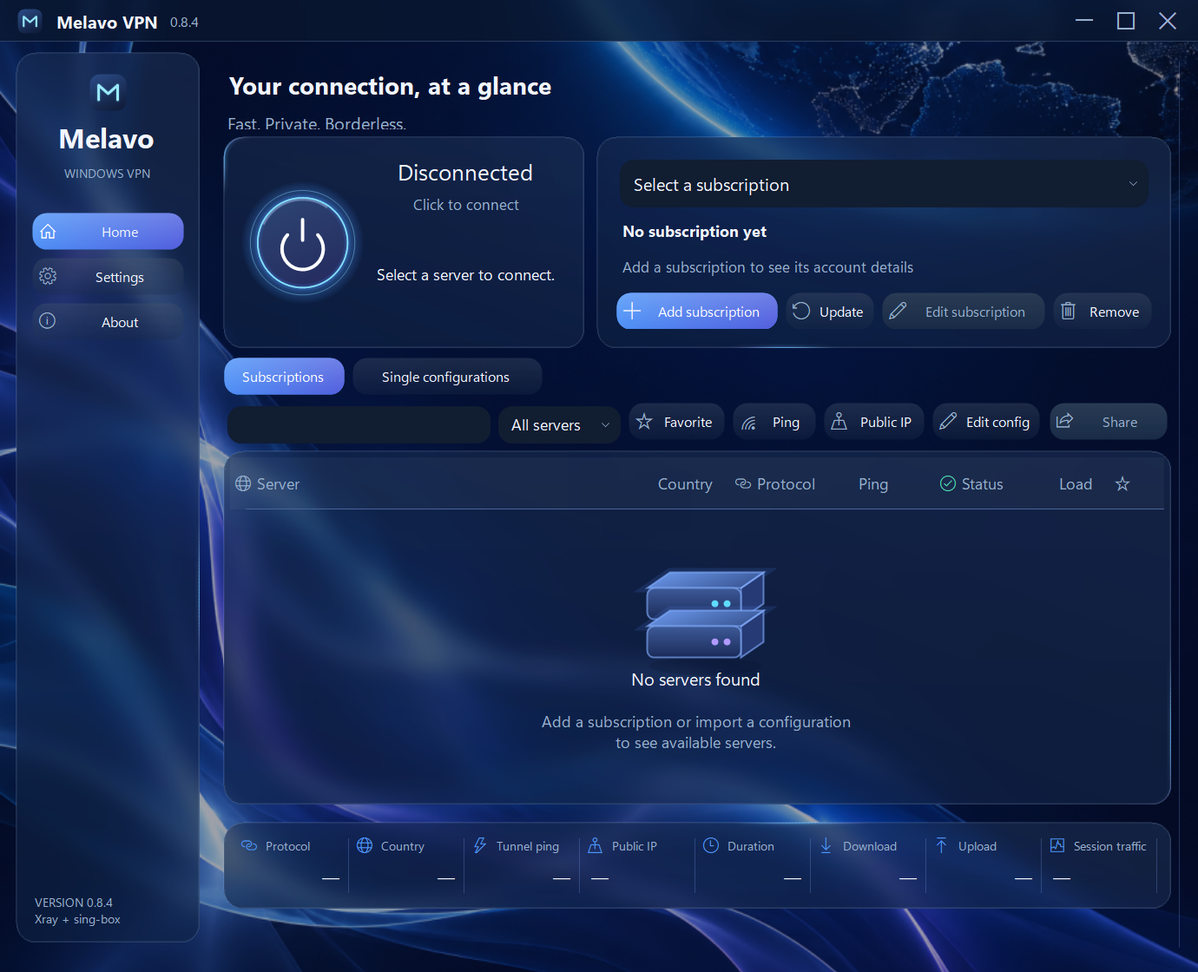
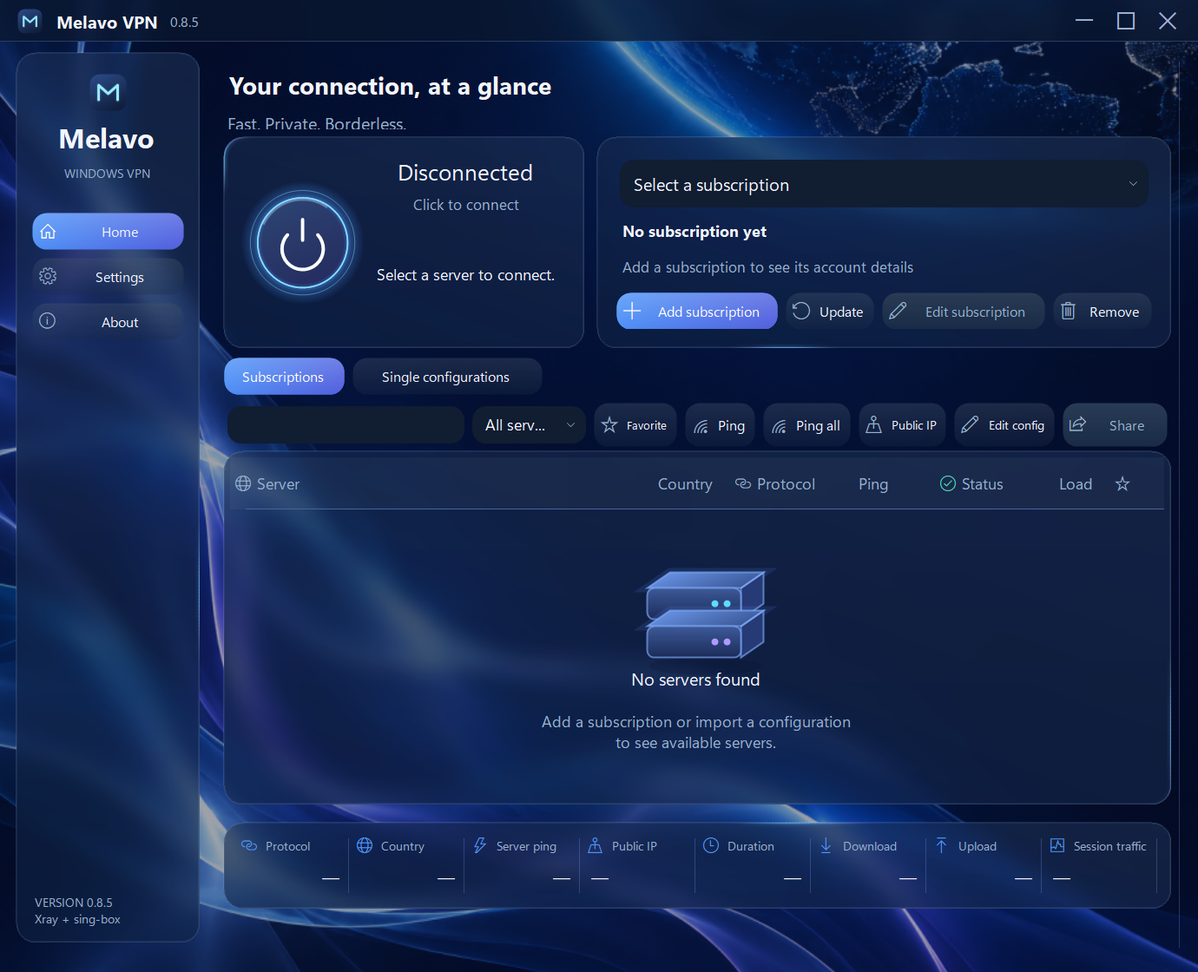
Polish dialog surfaces and add actual ICMP ping checks

diff --git a/Client.Ui.cs b/Client.Ui.cs
@@ -19,12 +19,12 @@ sealed partial class Client {
  Panel? pageHost;string currentPage="Home";ConnectionState visualState;DateTime? connectedAt;long lastRx,lastTx,totalRx,totalTx;bool sampled,disconnecting;string? activeProfileKey;float animation;DateTime sampleAt;DateTime pageTransition;
  void BuildShell(){
   using(var iconStream=typeof(Client).Assembly.GetManifestResourceStream("MelavoClient.Assets.Melavo.ico")){if(iconStream!=null){Icon=new Icon(iconStream);tray.Icon=Icon;}}
-  Design.Glass=preferences.VisualStyle=="glass";Design.Dark=preferences.Dark;Text="Melavo VPN · 0.8.4"+(SubscriptionStore.Edition=="customer"?" · Customer":"");Font=Design.Font();BackColor=Design.Canvas;ForeColor=Design.Text;RightToLeft=RightToLeft.Yes;Size=new(1380,1120);FormBorderStyle=FormBorderStyle.None;MaximizeBox=true;MinimizeBox=true;StartPosition=FormStartPosition.CenterScreen;
+  Design.Glass=preferences.VisualStyle=="glass";Design.Dark=preferences.Dark;Text="Melavo VPN · 0.8.5"+(SubscriptionStore.Edition=="customer"?" · Customer":"");Font=Design.Font();BackColor=Design.Canvas;ForeColor=Design.Text;RightToLeft=RightToLeft.Yes;Size=new(1380,1120);FormBorderStyle=FormBorderStyle.None;MaximizeBox=true;MinimizeBox=true;StartPosition=FormStartPosition.CenterScreen;
   var shell=new BufferedTable{Dock=DockStyle.Fill,ColumnCount=2,RowCount=1,Padding=new(18,12,18,18),RightToLeft=RightToLeft.No};shell.ColumnStyles.Add(new(SizeType.Percent,100));shell.ColumnStyles.Add(new(SizeType.Absolute,212));Controls.Add(shell);Padding=new(0,48,0,0);titleBar=new WindowTitleBar(this){Dock=DockStyle.None,Bounds=new Rectangle(0,0,ClientSize.Width,48),Anchor=AnchorStyles.Top|AnchorStyles.Left|AnchorStyles.Right};Controls.Add(titleBar);titleBar.BringToFront();
   var sidebar=new Card{RightToLeft=RightToLeft.Yes,Dock=DockStyle.Fill,Padding=new(18,22,18,18),BackColor=Design.Surface};shell.Controls.Add(sidebar,1,0);
   var nav=new BufferedFlow{Dock=DockStyle.Top,AutoSize=true,FlowDirection=FlowDirection.TopDown,WrapContents=false};nav.Controls.Add(new BrandLockup{Margin=new(0,0,0,20)});
   foreach(var item in new[]{("Home","◉  خانه"),("Settings","⚙  تنظیمات"),("About","ⓘ  درباره")}){var button=new ModernButton{Text=item.Item2[3..],IconGlyph=item.Item1 switch{"Home"=>"\uE80F","Servers"=>"\uE774","Subscription"=>"\uE8A5","Statistics"=>"\uE9D9","Settings"=>"\uE713",_=>"\uE946"},Width=176,Height=44,Margin=new(0,8,0,0),AccessibleName=item.Item1,Kind=ButtonKind.Ghost,RightToLeft=RightToLeft.Yes};var key=item.Item1;button.Click+=(_,_)=>Navigate(key);navigation[key]=button;nav.Controls.Add(button);}sidebar.Controls.Add(nav);
-  var foot=Design.Label("VERSION 0.8.4\nXray + sing-box",7,true);foot.Dock=DockStyle.Bottom;foot.Height=46;sidebar.Controls.Add(foot);
+  var foot=Design.Label("VERSION 0.8.5\nXray + sing-box",7,true);foot.Dock=DockStyle.Bottom;foot.Height=46;sidebar.Controls.Add(foot);
   pageHost=new BufferedPanel{RightToLeft=RightToLeft.Yes,Dock=DockStyle.Fill,Padding=new(24,12,10,10)};shell.Controls.Add(pageHost,0,0);
   InitializeServerControls();BuildHome();BuildSettings();BuildAbout();
   var footer=new Panel{Dock=DockStyle.Bottom,Height=40,Padding=new(12,8,12,0)};status.Font=Design.Font(9);status.ForeColor=Design.Muted;footer.Controls.Add(status);pageHost.Controls.Add(footer);footer.BringToFront();
@@ -56,9 +56,9 @@ sealed partial class Client {
   var title=Design.Label("اشتراک من",12);title.AutoSize=false;title.Margin=Padding.Empty;title.Dock=DockStyle.Fill;form.Controls.Add(title,0,0);form.SetColumnSpan(title,2);groups.Dock=DockStyle.Fill;form.Controls.Add(groups,0,1);form.SetColumnSpan(groups,2);
   accountUsage.Tag=new TextStyle(11,false,FontStyle.Bold);accountUsage.Font=Design.Font(10);accountUsage.Dock=DockStyle.Fill;accountUsage.AutoSize=false;accountUsage.AutoEllipsis=true;accountUsage.Margin=new(4,7,4,0);form.Controls.Add(accountUsage,0,2);form.SetColumnSpan(accountUsage,2);
   accountProgress.Dock=DockStyle.Fill;accountProgress.Margin=new(4,0,4,0);form.Controls.Add(accountProgress,0,3);form.SetColumnSpan(accountProgress,2);accountExpiry.Dock=DockStyle.Fill;accountExpiry.AutoSize=false;accountExpiry.AutoEllipsis=true;accountExpiry.Margin=new(4,4,4,8);form.Controls.Add(accountExpiry,0,4);form.SetColumnSpan(accountExpiry,2);
-  manageSubscription.IconGlyph="\uE710";refresh.IconGlyph="\uE777";editSubscription.IconGlyph="\uE70F";deleteSubscription.IconGlyph="\uE74D";var manage=manageSubscription;manage.Click+=(_,_)=>{if(singleConfigScope)ShowSingleConfigDialog();else ShowSubscriptionDialog();};StyleExisting(refresh);refresh.Width=110;refresh.Text="آپدیت";manage.Width=192;editSubscription.Width=188;editSubscription.Click+=(_,_)=>ShowEditSubscriptionDialog();deleteSubscription.Width=118;deleteSubscription.Click+=(_,_)=>DeleteSubscription();var actions=new BufferedTable{Dock=DockStyle.Fill,ColumnCount=4,RowCount=1,Margin=Padding.Empty};foreach(var weight in new[]{31f,18f,32f,19f})actions.ColumnStyles.Add(new(SizeType.Percent,weight));var actionButtons=new[]{manage,refresh,editSubscription,deleteSubscription};for(int i=0;i<actionButtons.Length;i++){var button=actionButtons[i];button.Dock=DockStyle.Fill;button.Margin=new(i==0?0:4,5,i==3?0:4,5);button.Height=44;actions.Controls.Add(button,i,0);}form.Controls.Add(actions,0,5);form.SetColumnSpan(actions,2);account.Controls.Add(form);top.Controls.Add(account,1,0);
+  manageSubscription.IconGlyph="\uE710";refresh.IconGlyph="\uE777";editSubscription.IconGlyph="\uE70F";deleteSubscription.IconGlyph="\uE74D";var manage=manageSubscription;manage.Click+=(_,_)=>{if(singleConfigScope)ShowSingleConfigDialog();else ShowSubscriptionDialog();};StyleExisting(refresh);refresh.Width=110;refresh.Text="آپدیت";manage.Width=192;editSubscription.Width=188;editSubscription.Click+=(_,_)=>ShowEditSubscriptionDialog();deleteSubscription.Width=118;deleteSubscription.Click+=(_,_)=>DeleteSubscription();var actions=new BufferedTable{Dock=DockStyle.Fill,ColumnCount=4,RowCount=1,Margin=Padding.Empty};foreach(var weight in new[]{31f,18f,32f,19f})actions.ColumnStyles.Add(new(SizeType.Percent,weight));var actionButtons=new[]{manage,refresh,editSubscription,deleteSubscription};for(int i=0;i<actionButtons.Length;i++){var button=actionButtons[i];button.Dock=DockStyle.Fill;button.Margin=new(i==0?0:4,5,i==3?0:4,5);button.Dock=DockStyle.Fill;button.Height=44;actions.Controls.Add(button,i,0);}form.Controls.Add(actions,0,5);form.SetColumnSpan(actions,2);account.Controls.Add(form);top.Controls.Add(account,1,0);
   var scope=new BufferedFlow{Dock=DockStyle.Fill,FlowDirection=FlowDirection.LeftToRight,WrapContents=false,Margin=Padding.Empty};subscriptionsTab.Width=140;singleConfigsTab.Width=220;foreach(var tab in new[]{subscriptionsTab,singleConfigsTab}){tab.Height=44;tab.Margin=new(0,0,8,0);scope.Controls.Add(tab);}layout.Controls.Add(scope,0,2);
-  var toolbar=new BufferedTable{Dock=DockStyle.Fill,ColumnCount=7,RowCount=1,Margin=Padding.Empty};toolbar.ColumnStyles.Add(new(SizeType.Percent,100));foreach(var w in new[]{150,120,105,125,135,145})toolbar.ColumnStyles.Add(new(SizeType.Absolute,w));search.Font=filter.Font=Design.Font(9);search.Dock=DockStyle.Fill;filter.Dock=DockStyle.Fill;var favorite=Action("محبوب",120);favorite.IconGlyph="\uE734";favorite.Click+=(_,_)=>ToggleFavorite();var ping=Action("پینگ",105);ping.IconGlyph="\uE701";ping.AccessibleDescription="میانهٔ زمان پاسخ HTTPS از تونل سرور انتخابشده، شامل TLS و درخواست HTTP";ping.Click+=async(_,_)=>await CheckLatency();var ip=Action("IP خروجی",105);ip.Width=125;ip.IconGlyph="\uE707";ip.Click+=async(_,_)=>await RefreshIp();foreach(var button in new[]{favorite,ping,ip,editConfig,shareConfig}){button.Height=44;button.Margin=new(4,0,4,0);}toolbar.Controls.Add(search,0,0);toolbar.Controls.Add(filter,1,0);toolbar.Controls.Add(favorite,2,0);toolbar.Controls.Add(ping,3,0);toolbar.Controls.Add(ip,4,0);editConfig.IconGlyph="\uE70F";shareConfig.IconGlyph="\uE72D";editConfig.Width=125;editConfig.Click+=async(_,_)=>await ShowConfigEditor();toolbar.Controls.Add(editConfig,5,0);shareConfig.Width=140;toolbar.Controls.Add(shareConfig,6,0);layout.Controls.Add(toolbar,0,3);
+  var toolbar=new BufferedTable{Dock=DockStyle.Fill,ColumnCount=8,RowCount=1,Margin=Padding.Empty};toolbar.ColumnStyles.Add(new(SizeType.Percent,100));foreach(var w in new[]{140,105,90,110,110,125,130})toolbar.ColumnStyles.Add(new(SizeType.Absolute,w));search.Font=filter.Font=Design.Font(9);search.Dock=DockStyle.Fill;filter.Dock=DockStyle.Fill;var favorite=Action("محبوب",120);favorite.IconGlyph="\uE734";favorite.Click+=(_,_)=>ToggleFavorite();var ping=Action("پینگ",105);ping.IconGlyph="\uE701";ping.AccessibleDescription=L("ICMP round-trip time to the server","زمان رفت و برگشت ICMP به سرور");ping.Click+=async(_,_)=>await CheckLatency();var pingAll=Action("پینگ همه",110);pingAll.IconGlyph="\uE701";pingAll.Click+=async(_,_)=>await CheckLatency(true);var ip=Action("IP خروجی",105);ip.Width=125;ip.IconGlyph="\uE707";ip.Click+=async(_,_)=>await RefreshIp();foreach(var button in new[]{favorite,ping,pingAll,ip,editConfig,shareConfig}){button.Dock=DockStyle.Fill;button.Height=44;button.Margin=new(4,0,4,0);}toolbar.Controls.Add(search,0,0);toolbar.Controls.Add(filter,1,0);toolbar.Controls.Add(favorite,2,0);toolbar.Controls.Add(ping,3,0);toolbar.Controls.Add(pingAll,4,0);toolbar.Controls.Add(ip,5,0);editConfig.IconGlyph="\uE70F";shareConfig.IconGlyph="\uE72D";editConfig.Width=125;editConfig.Click+=async(_,_)=>await ShowConfigEditor();toolbar.Controls.Add(editConfig,6,0);shareConfig.Width=140;toolbar.Controls.Add(shareConfig,7,0);layout.Controls.Add(toolbar,0,3);
   var serverCard=new Card{ReflectionDelay=5.2,Dock=DockStyle.Fill,Padding=new(8),Margin=new(0,4,0,8)};serverCard.Controls.Add(servers);layout.Controls.Add(serverCard,0,4);
   var dashboard=new BufferedTable{Dock=DockStyle.Fill,ColumnCount=8,RowCount=1,Margin=Padding.Empty};for(int col=0;col<8;col++)dashboard.ColumnStyles.Add(new(SizeType.Percent,12.5f));dashboard.RowStyles.Add(new(SizeType.Percent,100));
   var items=new[]{("protocol","پروتکل"),("country","کشور"),("ping","پینگ تونل"),("ip","IP خروجی"),("duration","مدت اتصال"),("download","دانلود"),("upload","آپلود"),("usage","ترافیک نشست")};
@@ -76,13 +76,13 @@ sealed partial class Client {
  static JsonNode? Outbound(JsonObject p)=>p["outbounds"]?.AsArray().FirstOrDefault(x=>x?["protocol"]?.ToString() is not ("freedom" or "blackhole" or "dns"));
  static string Country(JsonObject p){var text=p["remarks"]?.ToString()??"";var runes=text.EnumerateRunes().Select(r=>r.Value).ToArray();for(int i=0;i<runes.Length-1;i++)if(runes[i] is >=0x1F1E6 and <=0x1F1FF&&runes[i+1] is >=0x1F1E6 and <=0x1F1FF){var code=""+(char)('A'+runes[i]-0x1F1E6)+(char)('A'+runes[i+1]-0x1F1E6);return char.ConvertFromUtf32(runes[i])+char.ConvertFromUtf32(runes[i+1])+" "+code;}return "Unknown";}
  bool fillingServers;
- void FillServers(){if(servers.Columns.Count<7)return;_ = servers.Handle;int oldOffset=servers.ScrollOffset;fillingServers=true;int oldTop=servers.TopItem?.Tag is int topIndex?topIndex:-1;int old=servers.SelectedItems.Count>0&&servers.SelectedItems[0].Tag is int n?n:-1;servers.BeginUpdate();servers.Items.Clear();for(int i=0;i<Profiles.Count;i++){var p=Profiles[i];var key=ProfileKey(p);var title=p["remarks"]?.ToString()??$"Server {i+1}";var protocol=Outbound(p)?["protocol"]?.ToString()?.ToUpperInvariant()??"—";var country=Country(p);if(!string.IsNullOrWhiteSpace(search.Text)&&!($"{title} {protocol} {country}").Contains(search.Text,StringComparison.OrdinalIgnoreCase))continue;if(filter.SelectedIndex==1&&!preferences.Favorites.Contains(key))continue;if(filter.SelectedIndex==2&&!preferences.Recent.Contains(key))continue;var item=new ServerItem(title){Tag=i};item.SubItems.Add(country);item.SubItems.Add(protocol);item.SubItems.Add(latency.TryGetValue(key,out var ping)?ping+" ms":latencyFailed.Contains(key)?L("No reply","پاسخ نداد"):"—");item.SubItems.Add(latency.ContainsKey(key)?L("Responding","تونل پاسخ داد"):latencyFailed.Contains(key)?L("No reply","بدون پاسخ"):L("Not tested","بررسی نشده"));item.SubItems.Add("—");item.SubItems.Add(preferences.Favorites.Contains(key)?"★":"☆");servers.Items.Add(item);}if(filter.SelectedIndex==2){var sorted=servers.Items.Cast<ServerItem>().OrderBy(x=>preferences.Recent.IndexOf(ProfileKey(Profiles[(int)x.Tag!]))).ToArray();servers.Items.Clear();servers.Items.AddRange(sorted);}var choice=servers.Items.Cast<ServerItem>().FirstOrDefault(x=>(int)x.Tag! ==old)??servers.Items.Cast<ServerItem>().FirstOrDefault();if(choice!=null)choice.Selected=true;servers.EmptyDescription=Profiles.Count>0?L("Try a different search or server filter.","جستجو یا فیلتر سرورها را تغییر دهید."):L("Add a subscription or import a configuration\nto see available servers.","برای نمایش سرورها، ساب اضافه کنید\nیا یک کانفیگ وارد کنید.");servers.EndUpdate();FitColumns();servers.RestoreTop(oldTop,oldOffset);fillingServers=false;UpdateSelectedSummary();}
+ void FillServers(){if(servers.Columns.Count<7)return;_ = servers.Handle;int oldOffset=servers.ScrollOffset;fillingServers=true;int oldTop=servers.TopItem?.Tag is int topIndex?topIndex:-1;int old=servers.SelectedItems.Count>0&&servers.SelectedItems[0].Tag is int n?n:-1;servers.BeginUpdate();servers.Items.Clear();for(int i=0;i<Profiles.Count;i++){var p=Profiles[i];var key=ProfileKey(p);var title=p["remarks"]?.ToString()??$"Server {i+1}";var protocol=Outbound(p)?["protocol"]?.ToString()?.ToUpperInvariant()??"—";var country=Country(p);if(!string.IsNullOrWhiteSpace(search.Text)&&!($"{title} {protocol} {country}").Contains(search.Text,StringComparison.OrdinalIgnoreCase))continue;if(filter.SelectedIndex==1&&!preferences.Favorites.Contains(key))continue;if(filter.SelectedIndex==2&&!preferences.Recent.Contains(key))continue;var item=new ServerItem(title){Tag=i};item.SubItems.Add(country);item.SubItems.Add(protocol);item.SubItems.Add(latency.TryGetValue(key,out var ping)?ping+" ms":latencyFailed.Contains(key)?L("No ICMP reply","بدون پاسخ ICMP"):"—");item.SubItems.Add(latency.ContainsKey(key)?L("ICMP reply","پاسخ ICMP"):latencyFailed.Contains(key)?L("No reply","بدون پاسخ"):L("Not tested","بررسی نشده"));item.SubItems.Add("—");item.SubItems.Add(preferences.Favorites.Contains(key)?"★":"☆");servers.Items.Add(item);}if(filter.SelectedIndex==2){var sorted=servers.Items.Cast<ServerItem>().OrderBy(x=>preferences.Recent.IndexOf(ProfileKey(Profiles[(int)x.Tag!]))).ToArray();servers.Items.Clear();servers.Items.AddRange(sorted);}var choice=servers.Items.Cast<ServerItem>().FirstOrDefault(x=>(int)x.Tag! ==old)??servers.Items.Cast<ServerItem>().FirstOrDefault();if(choice!=null)choice.Selected=true;servers.EmptyDescription=Profiles.Count>0?L("Try a different search or server filter.","جستجو یا فیلتر سرورها را تغییر دهید."):L("Add a subscription or import a configuration\nto see available servers.","برای نمایش سرورها، ساب اضافه کنید\nیا یک کانفیگ وارد کنید.");servers.EndUpdate();FitColumns();servers.RestoreTop(oldTop,oldOffset);fillingServers=false;UpdateSelectedSummary();}
  void FitColumns(){if(servers.Columns.Count<7)return;int[] widths={Math.Max(220,servers.ClientSize.Width-580),90,145,95,140,65,45};for(int i=0;i<7;i++)if(servers.Columns[i].Width!=widths[i])servers.Columns[i].Width=widths[i];}
  void UpdateSelectedSummary(){var selected=servers.SelectedItems.Count>0&&servers.SelectedItems[0].Tag is int i&&i<Profiles.Count?Profiles[i]:null;var p=(xray!=null||busy)&&activeProfileKey!=null?Profiles.FirstOrDefault(profile=>ProfileKey(profile)==activeProfileKey):selected;if(p!=null){serverSummary.Text=ServerList.StripFlags(p["remarks"]?.ToString()??"Server");serverSummary.RightToLeft=Design.Persian(serverSummary.Text)?RightToLeft.Yes:RightToLeft.No;Metric("protocol",Outbound(p)?["protocol"]?.ToString()?.ToUpperInvariant()??"—");Metric("country",Country(p).Split(' ').Last());Metric("ping",latency.TryGetValue(ProfileKey(p),out var ping)?ping+" ms":"—");}else{serverSummary.Text=L("Select a server to connect.","یک سرور برای اتصال انتخاب کنید");Metric("protocol","—");Metric("country","—");Metric("ping","—");}if(groups.SelectedItem is SubscriptionGroup g)groupDescription.Text=L($"{g.Name} · {g.Profiles.Count} servers · Last updated: ",$"{g.Name} · {g.Profiles.Count} سرور · آخرین آپدیت: ")+(g.Updated?.ToLocalTime().ToString("yyyy/MM/dd HH:mm")??"—");UpdateAccount();}
  void ToggleFavorite(){if(busy||updating||servers.SelectedItems.Count==0)return;var p=Profiles[(int)servers.SelectedItems[0].Tag!];var key=ProfileKey(p);if(!preferences.Favorites.Add(key))preferences.Favorites.Remove(key);SavePreferences();FillServers();}
  void SavePreferences(){if(preview)return;try{preferences.Save();}catch{status.Text=L("Could not save appearance settings.","ذخیرهٔ تنظیمات ظاهر ناموفق بود.");}}
  void SyncUi(){if(pageHost==null)return;search.Enabled=filter.Enabled=!busy&&!updating;var next=disconnecting?ConnectionState.Disconnecting:busy?ConnectionState.Connecting:xray!=null?ConnectionState.Connected:status.Text.Contains("ناموفق")||status.Text.Contains("متوقف شد")||status.Text.Contains("Connection failed")||status.Text.Contains("Engine stopped")?ConnectionState.Error:ConnectionState.Disconnected;
-  if(next!=visualState){if(next==ConnectionState.Connected){connectedAt=DateTime.UtcNow;sampled=false;totalRx=totalTx=0;if(activeProfileKey!=null){preferences.Recent.Remove(activeProfileKey);preferences.Recent.Insert(0,activeProfileKey);preferences.Recent=preferences.Recent.Take(12).ToList();SavePreferences();}}if(next is ConnectionState.Disconnected or ConnectionState.Error){connectedAt=null;Metric("ip","—");}if(preferences.Notifications){tray.Visible=true;tray.ShowBalloonTip(2500,"Melavo VPN",next.ToString(),ToolTipIcon.Info);}visualState=next;UpdateSelectedSummary();}
+  if(next!=visualState){if(next==ConnectionState.Connected){connectedAt=DateTime.UtcNow;sampled=false;totalRx=totalTx=0;if(activeProfileKey!=null){preferences.Recent.Remove(activeProfileKey);preferences.Recent.Insert(0,activeProfileKey);preferences.Recent=preferences.Recent.Take(12).ToList();SavePreferences();}}if(next is ConnectionState.Disconnected or ConnectionState.Error){connectedAt=null;Metric("ip","—");}if(preferences.Notifications){tray.Visible=true;tray.ShowBalloonTip(2500,"Melavo VPN",next.ToString(),ToolTipIcon.Info);}visualState=next;UpdateSelectedSummary();if(next==ConnectionState.Connected&&!preview)_=RefreshIp();}
   bool stateChanged=power.State!=next;power.State=next;power.Enabled=!updating&&!busy&&!disconnecting;power.AccessibleName=next==ConnectionState.Connected?L("Disconnect VPN","قطع اتصال VPN"):L("Connect VPN","اتصال VPN");if(stateChanged)power.Invalidate();var title=next switch{ConnectionState.Connected=>"متصل",ConnectionState.Connecting=>"در حال اتصال",ConnectionState.Disconnecting=>"در حال قطع اتصال",ConnectionState.Error=>"خطای اتصال",_=>"متصل نیست"};stateTitle.Text=Fa?title:English.GetValueOrDefault(title,title);stateTitle.RightToLeft=Fa?RightToLeft.Yes:RightToLeft.No;stateTitle.ForeColor=next==ConnectionState.Error?Design.Error:next==ConnectionState.Connected?Design.Accent:Design.Text;var hint=next switch{ConnectionState.Connected=>(status.Text.Contains("پاسخ تست")||status.Text.Contains("did not respond"))?"تونل فعال؛ اینترنت هنوز تأیید نشده":"اتصال فعال است",ConnectionState.Connecting=>status.Text,ConnectionState.Disconnecting=>"در حال قطع اتصال",ConnectionState.Error=>"خطای اتصال؛ جزئیات در «درباره»",_=>updating?"بهروزرسانی سابها…":"برای اتصال دکمه را بزنید"};stateHint.Text=Fa?hint:English.GetValueOrDefault(hint,hint);Metric("duration",connectedAt.HasValue?(DateTime.UtcNow-connectedAt.Value).ToString(@"hh\:mm\:ss"):"—");}
  void SampleTraffic(){if(xray==null||box==null){Metric("download","—");Metric("upload","—");return;}try{var nic=NetworkInterface.GetAllNetworkInterfaces().FirstOrDefault(n=>n.Name=="MelavoTUN");if(nic==null)return;var s=nic.GetIPStatistics();if(sampled){var seconds=Math.Max(.1,(DateTime.UtcNow-sampleAt).TotalSeconds);var rx=Math.Max(0,s.BytesReceived-lastRx);var tx=Math.Max(0,s.BytesSent-lastTx);totalRx+=rx;totalTx+=tx;Metric("download",Bytes((long)(rx/seconds))+"/s");Metric("upload",Bytes((long)(tx/seconds))+"/s");Metric("usage",Bytes(totalRx+totalTx));Metric("rx",Bytes(totalRx));Metric("tx",Bytes(totalTx));}lastRx=s.BytesReceived;lastTx=s.BytesSent;sampled=true;sampleAt=DateTime.UtcNow;}catch{}}
  static string Bytes(long n)=>n>=1073741824?$"{n/1073741824d:0.00} GB":n>=1048576?$"{n/1048576d:0.0} MB":n>=1024?$"{n/1024d:0.0} KB":$"{n} B";

diff --git a/Client.Language.cs b/Client.Language.cs
@@ -6,7 +6,7 @@ sealed partial class Client {
  static readonly Dictionary<string,string> English=new(){
  ["سریع. خصوصی. بدون مرز."]="Fast. Private. Borderless.",["آپدیت"]="Update",["Language / زبان"]="Language",["ذخیره"]="Save",["سرور"]="Server",
  ["ویرایش ساب"]="Edit subscription",["سابها"]="Subscriptions",["کانفیگهای تکی"]="Single configurations",["اشتراکگذاری"]="Share",["افزودن ساب"]="Add subscription",["افزودن کانفیگ"]="Add config",["حذف کانفیگ"]="Remove config",["اتصال"]="Connect",["قطع اتصال"]="Disconnect",["آپدیت گروه"]="Update subscription",["بازکردن"]="Open",["خروج"]="Exit",["بازکردن فهرست"]="Open list",["فهرست سرورها"]="Server list",["اتصال VPN"]="Connect VPN",["قطع اتصال VPN"]="Disconnect VPN",["نام گروه"]="Group name",["لینک سابسکریپشن HTTPS"]="HTTPS subscription URL",["ناموجود"]="Unavailable",
- ["دریافت خودکار بهروزرسانی برنامه"]="Download app updates automatically",["بررسی بهروزرسانی"]="Check for updates",["سبک ظاهری"]="Visual style",["خانه"]="Home",["تنظیمات"]="Settings",["درباره"]="About",["اتصال امن، با یک انتخاب"]="Your connection, at a glance",["اشتراک من"]="My subscription",["افزودن اشتراک"]="Add subscription",["حذف"]="Remove",["بهروزرسانی"]="Update",["محبوب"]="Favorite",["★ محبوب"]="★ Favorite",["پینگ تونل"]="Tunnel ping",["پینگ"]="Ping",["آیپی خروجی"]="Check IP",["ویرایش"]="Edit config",["پروتکل"]="Protocol",["کشور"]="Country",["IP خروجی"]="Public IP",["مدت اتصال"]="Duration",["دانلود"]="Download",["آپلود"]="Upload",["ترافیک نشست"]="Session traffic",["تنظیمات ظاهر و رفتار برنامه"]="Appearance and app behavior",["تم تاریک"]="Dark theme",["اعلان تغییر وضعیت اتصال"]="Connection notifications",["حالت TUN"]="TUN mode",["جزئیات وضعیت و خطا"]="Diagnostics",["کپی جزئیات خطا"]="Copy diagnostics",["آپدیت Xray"]="Update Xray",["آپدیت برنامه از ZIP"]="Update app from ZIP",["Xray از GitHub رسمی؛ برنامه از فایل نسخهٔ جدید"]="Xray from its official GitHub release; app updates from release ZIP",["متصل"]="Connected",["در حال اتصال"]="Connecting",["در حال قطع اتصال"]="Disconnecting",["خطای اتصال"]="Connection error",["متصل نیست"]="Disconnected",["اتصال فعال است"]="Connection active",["برای اتصال دکمه را بزنید"]="Click to connect",["بهروزرسانی سابها…"]="Updating subscriptions…",["یک سرور از بخش سرورها انتخاب کنید"]="Select a server from the list",["هنوز اشتراکی اضافه نشده"]="No subscription yet",["ساب را برای نمایش اطلاعات حساب اضافه کنید"]="Add a subscription to see its account details",["حجم اشتراک توسط ساب گزارش نشده"]="Traffic allowance is not provided by this subscription",["تاریخ انقضا توسط ساب گزارش نشده"]="Expiry date is not provided by this subscription",["قطع است"]="Disconnected",["نامشخص"]="Unknown",["تونل فعال؛ اینترنت هنوز تأیید نشده"]="Tunnel active; internet check not confirmed",["خطای اتصال؛ جزئیات در «درباره»"]="Connection failed; see About for diagnostics",["برای شروع، یک سرور انتخاب کنید"]="Select a server to get started",["هیچ سروری انتخاب نشده"]="No server selected",
+ ["دریافت خودکار بهروزرسانی برنامه"]="Download app updates automatically",["بررسی بهروزرسانی"]="Check for updates",["سبک ظاهری"]="Visual style",["خانه"]="Home",["تنظیمات"]="Settings",["درباره"]="About",["اتصال امن، با یک انتخاب"]="Your connection, at a glance",["اشتراک من"]="My subscription",["افزودن اشتراک"]="Add subscription",["حذف"]="Remove",["بهروزرسانی"]="Update",["محبوب"]="Favorite",["★ محبوب"]="★ Favorite",["پینگ همه"]="Ping all",["پینگ تونل"]="Server ping",["پینگ"]="Ping",["آیپی خروجی"]="Check IP",["ویرایش"]="Edit config",["پروتکل"]="Protocol",["کشور"]="Country",["IP خروجی"]="Public IP",["مدت اتصال"]="Duration",["دانلود"]="Download",["آپلود"]="Upload",["ترافیک نشست"]="Session traffic",["تنظیمات ظاهر و رفتار برنامه"]="Appearance and app behavior",["تم تاریک"]="Dark theme",["اعلان تغییر وضعیت اتصال"]="Connection notifications",["حالت TUN"]="TUN mode",["جزئیات وضعیت و خطا"]="Diagnostics",["کپی جزئیات خطا"]="Copy diagnostics",["آپدیت Xray"]="Update Xray",["آپدیت برنامه از ZIP"]="Update app from ZIP",["Xray از GitHub رسمی؛ برنامه از فایل نسخهٔ جدید"]="Xray from its official GitHub release; app updates from release ZIP",["متصل"]="Connected",["در حال اتصال"]="Connecting",["در حال قطع اتصال"]="Disconnecting",["خطای اتصال"]="Connection error",["متصل نیست"]="Disconnected",["اتصال فعال است"]="Connection active",["برای اتصال دکمه را بزنید"]="Click to connect",["بهروزرسانی سابها…"]="Updating subscriptions…",["یک سرور از بخش سرورها انتخاب کنید"]="Select a server from the list",["هنوز اشتراکی اضافه نشده"]="No subscription yet",["ساب را برای نمایش اطلاعات حساب اضافه کنید"]="Add a subscription to see its account details",["حجم اشتراک توسط ساب گزارش نشده"]="Traffic allowance is not provided by this subscription",["تاریخ انقضا توسط ساب گزارش نشده"]="Expiry date is not provided by this subscription",["قطع است"]="Disconnected",["نامشخص"]="Unknown",["تونل فعال؛ اینترنت هنوز تأیید نشده"]="Tunnel active; internet check not confirmed",["خطای اتصال؛ جزئیات در «درباره»"]="Connection failed; see About for diagnostics",["برای شروع، یک سرور انتخاب کنید"]="Select a server to get started",["هیچ سروری انتخاب نشده"]="No server selected",
  ["اطلاعات حجم در ساب موجود نیست"]="Traffic allowance unavailable",["تاریخ انقضا نامشخص"]="Expiry unavailable",["گروههای شما با هر بار بازشدن خودکار آپدیت میشوند"]="Subscriptions update automatically when the app opens"
  };
  void TranslateTree(Control root){

diff --git a/Client.Latency.cs b/Client.Latency.cs
@@ -5,7 +5,38 @@ using System.Text.Json.Nodes;
 namespace MelavoClient;
 sealed partial class Client {
  readonly CancellationTokenSource pingCancellation=new();bool pingTesting;readonly HashSet<string> latencyFailed=new();
- async Task CheckLatency(){if(preview){status.Text=L("Ping is unavailable in offline preview.","پینگ در پیشنمایش آفلاین اجرا نمیشود.");return;}if(servers.SelectedItems.Count==0||busy||updating||pingTesting)return;var profile=Profiles[(int)servers.SelectedItems[0].Tag!];var key=ProfileKey(profile);pingTesting=true;SetControls();status.Text=L("Measuring HTTPS through the selected tunnel…","اندازهگیری پاسخ HTTPS از تونل سرور انتخابشده…");try{long ms=await MeasureProfile(profile,pingCancellation.Token);latency[key]=ms;latencyFailed.Remove(key);if(!IsDisposed){FillServers();status.Text=L($"Tunnel ping: {ms} ms · HTTPS response",$"پینگ تونل: {ms} ms · پاسخ HTTPS");}}catch(OperationCanceledException){}catch(Exception e){latency.Remove(key);latencyFailed.Add(key);if(!IsDisposed){FillServers();status.Text=L("Tunnel test did not respond; see About for diagnostics.","تست تونل پاسخ نداد؛ جزئیات در «درباره»");details.Text=L("Tunnel ping test: ","تست پینگ تونل: ")+SafeError(e.Message);}}finally{pingTesting=false;if(!IsDisposed)SetControls();}}
+ async Task CheckLatency(bool all=false){
+  if(preview||busy||updating||pingTesting||(!all&&servers.SelectedItems.Count==0))return;
+  var targets=(all?Profiles.ToArray():new[]{Profiles[(int)servers.SelectedItems[0].Tag!]}).Select(p=>(Profile:p,Key:ProfileKey(p))).ToArray();
+  if(targets.Length==0)return;
+  pingTesting=true;SetControls();int completed=0,responding=0;using var gate=new SemaphoreSlim(4);
+  try{await Task.WhenAll(targets.Select(async target=>{
+   await gate.WaitAsync(pingCancellation.Token);
+   try{var ms=await MeasureIcmpProfile(target.Profile,pingCancellation.Token);latency[target.Key]=ms;latencyFailed.Remove(target.Key);responding++;}
+   catch(OperationCanceledException){throw;}catch{latency.Remove(target.Key);latencyFailed.Add(target.Key);}finally{gate.Release();}
+   completed++;if(!IsDisposed){FillServers();status.Text=L($"ICMP ping: {completed}/{targets.Length} tested · {responding} responding",$"پینگ ICMP: {completed}/{targets.Length} بررسی شد · {responding} پاسخ داد");}
+  }));}catch(OperationCanceledException){}finally{pingTesting=false;if(!IsDisposed)SetControls();}
+ }
+ static string IcmpHost(JsonObject profile){
+  var settings=Outbound(profile)?["settings"];
+  var host=settings?["vnext"]?[0]?["address"]?.ToString()??settings?["servers"]?[0]?["address"]?.ToString();
+  if(string.IsNullOrWhiteSpace(host)){var endpoint=settings?["peers"]?[0]?["endpoint"]?.ToString();if(Uri.TryCreate("udp://"+endpoint,UriKind.Absolute,out var uri))host=uri.Host;}
+  if(string.IsNullOrWhiteSpace(host))throw new InvalidOperationException("Server address is missing.");
+  return host.Trim('[',']');
+ }
+ static async Task<long> MeasureIcmpProfile(JsonObject profile,CancellationToken cancel){
+  var addresses=await Dns.GetHostAddressesAsync(IcmpHost(profile),cancel);var results=new List<long>();
+  foreach(var address in addresses.OrderBy(a=>a.AddressFamily==AddressFamily.InterNetwork?0:1)){
+   using var ping=new System.Net.NetworkInformation.Ping();
+   for(int i=0;i<3;i++){cancel.ThrowIfCancellationRequested();try{
+    var reply=await ping.SendPingAsync(address,TimeSpan.FromSeconds(2),new byte[32],new System.Net.NetworkInformation.PingOptions(128,false),cancel);
+    if(reply.Status==System.Net.NetworkInformation.IPStatus.Success)results.Add(reply.RoundtripTime);
+   }catch(OperationCanceledException){throw;}catch(System.Net.NetworkInformation.PingException){}}
+   if(results.Count>0)break;
+  }
+  if(results.Count==0)throw new InvalidOperationException("No ICMP reply.");
+  return results.OrderBy(v=>v).ElementAt(results.Count/2);
+ }
  static async Task<long> MeasureTunnel(int port,CancellationToken cancel){
   // Always proxy through the selected configuration. No direct fallback.
   var results=new List<long>();Exception? last=null;

diff --git a/UpdateService.cs b/UpdateService.cs
@@ -7,10 +7,10 @@ namespace MelavoClient;
 sealed record CoreRelease(string Version,string Url,string Sha256);
 sealed record PackagePlan(string Version,string Stage,string[] Files,Dictionary<string,string> Hashes);
 static partial class UpdateService {
- public const string AppVersion="0.8.4";
+ public const string AppVersion="0.8.5";
  public static string TempRoot=>Path.Combine(SubscriptionStore.DirectoryPath,"updates");
  public static string NewStage(){var path=Path.Combine(TempRoot,Guid.NewGuid().ToString("N"));Directory.CreateDirectory(path);return path;}
- static HttpClient Http(){var http=new HttpClient{Timeout=TimeSpan.FromMinutes(3)};http.DefaultRequestHeaders.UserAgent.ParseAdd("MelavoClient/0.8.4");return http;}
+ static HttpClient Http(){var http=new HttpClient{Timeout=TimeSpan.FromMinutes(3)};http.DefaultRequestHeaders.UserAgent.ParseAdd("MelavoClient/0.8.5");return http;}
  public static async Task<CoreRelease> LatestCore(){using var http=Http();var json=JsonNode.Parse(await http.GetStringAsync("https://api.github.com/repos/XTLS/Xray-core/releases/latest"))!;var asset=json["assets"]!.AsArray().FirstOrDefault(a=>a?["name"]?.ToString()=="Xray-windows-64.zip")??throw new Exception("فایل ویندوز در انتشار رسمی موجود نیست.");var url=asset["browser_download_url"]!.ToString();var digest=asset["digest"]?.ToString()??"";if(!url.StartsWith("https://github.com/XTLS/Xray-core/releases/download/",StringComparison.OrdinalIgnoreCase)||!digest.StartsWith("sha256:")||digest.Length!=71)throw new Exception("اطلاعات تأیید دانلود رسمی کامل نیست.");return new(json["tag_name"]!.ToString().TrimStart('v'),url,digest[7..]);}
  public static async Task<string> DownloadCore(CoreRelease release,IProgress<int> progress){var stage=NewStage();var archive=Path.Combine(stage,"download.zip");using var http=Http();using var response=await http.GetAsync(release.Url,HttpCompletionOption.ResponseHeadersRead);response.EnsureSuccessStatusCode();using(var input=await response.Content.ReadAsStreamAsync())using(var output=File.Create(archive)){var buffer=new byte[65536];long total=0;int read;using var timeout=new CancellationTokenSource(TimeSpan.FromMinutes(3));while((read=await input.ReadAsync(buffer,timeout.Token))>0){total+=read;if(total>150_000_000)throw new Exception("اندازهٔ دانلود غیرمنتظره است.");await output.WriteAsync(buffer.AsMemory(0,read),timeout.Token);if(response.Content.Headers.ContentLength is long length&&length>0)progress.Report((int)(total*100/length));}}
   if(!Hash(archive).Equals(release.Sha256,StringComparison.OrdinalIgnoreCase))throw new Exception("SHA256 دانلود با انتشار رسمی مطابقت ندارد.");var core=Path.Combine(stage,"core");Directory.CreateDirectory(core);using var zip=ZipFile.OpenRead(archive);var allowed=new HashSet<string>(new[]{"xray.exe","libcronet.dll","geoip.dat","geosite.dat","LICENSE"},StringComparer.OrdinalIgnoreCase);foreach(var entry in zip.Entries){var relative=Relative(entry.FullName);if(entry.Name.Length==0)continue;if(relative.Contains('/')||!allowed.Contains(relative))continue;if(entry.Length>80_000_000)throw new Exception("فایل استخراجشده بیش از حد بزرگ است.");var name=relative.Equals("LICENSE",StringComparison.OrdinalIgnoreCase)?"LICENSE-Xray.txt":relative;entry.ExtractToFile(Path.Combine(core,name),true);}ValidateExe(Path.Combine(core,"xray.exe"));return core;

diff --git a/Client.Preview.cs b/Client.Preview.cs
@@ -4,5 +4,5 @@ namespace MelavoClient;
 sealed partial class Client {
  int localProxyPort;
  void LoadPreview(){var group=new SubscriptionGroup{Name="Design review · offline fixture",Url="https://example.invalid/sub/preview",Updated=DateTime.UtcNow,TotalBytes=100L*1024*1024*1024,UsedBytes=72L*1024*1024*1024,ExpiresUnix=DateTimeOffset.UtcNow.AddDays(28).ToUnixTimeSeconds()};foreach(var item in new[]{("🇩🇪 Frankfurt · Edge 01","vless"),("🇳🇱 Amsterdam · Edge 02","vmess"),("🇫🇮 Helsinki · Edge 03","wireguard")})group.Profiles.Add(new JsonObject{["remarks"]=item.Item1,["outbounds"]=new JsonArray(new JsonObject{["protocol"]=item.Item2,["settings"]=new JsonObject{["vnext"]=new JsonArray(new JsonObject{["address"]="example.invalid",["port"]=443})},["streamSettings"]=new JsonObject{["network"]="tcp",["security"]="reality"}})});subscriptions.Add(group);groups.Items.Add(group);groups.SelectedIndex=0;status.Text=L("Offline preview · Sample data", "پیشنمایش آفلاین · دادههای نمایشی");add.Enabled=false;refresh.Enabled=false;UpdateSelectedSummary();BeginInvoke(new Action(()=>File.WriteAllLines(Path.Combine(AppContext.BaseDirectory,"layout.txt"),new[]{"dpi="+DeviceDpi+" form="+Size+" scale="+AutoScaleDimensions,"title="+stateTitle.Bounds+" font="+stateTitle.Font.Height+" parent="+stateTitle.Parent!.Size,"hint="+stateHint.Bounds+" font="+stateHint.Font.Height,"summary="+serverSummary.Bounds+" font="+serverSummary.Font.Height})));}
- async Task RefreshIp(){if(xray==null||busy)return;try{using var handler=new HttpClientHandler{UseProxy=box==null};if(box==null)handler.Proxy=new WebProxy($"socks5://127.0.0.1:{localProxyPort}");using var http=new HttpClient(handler){Timeout=TimeSpan.FromSeconds(8)};var content=await http.GetStringAsync("https://www.cloudflare.com/cdn-cgi/trace");var address=content.Split('\n').FirstOrDefault(line=>line.StartsWith("ip="))?[3..].Trim();if(xray!=null&&IPAddress.TryParse(address,out _))Metric("ip",address!);}catch{Metric("ip","ناموجود");}}
+ async Task RefreshIp(){if(xray==null||busy||preview)return;var session=xray;try{using var handler=new HttpClientHandler{UseProxy=true};handler.Proxy=new WebProxy($"socks5://127.0.0.1:{localProxyPort}");using var http=new HttpClient(handler){Timeout=TimeSpan.FromSeconds(8)};var content=await http.GetStringAsync("https://www.cloudflare.com/cdn-cgi/trace");var address=content.Split('\n').FirstOrDefault(line=>line.StartsWith("ip="))?[3..].Trim();if(!IsDisposed&&ReferenceEquals(xray,session)&&IPAddress.TryParse(address,out _))Metric("ip",address!);}catch{if(!IsDisposed&&ReferenceEquals(xray,session))Metric("ip",L("Unavailable","ناموجود"));}}
 }

diff --git a/Program.cs b/Program.cs
@@ -12,13 +12,14 @@ static class Program
         // see https://aka.ms/applicationconfiguration.
         ApplicationConfiguration.Initialize();
         if(args.Any(a=>a.EndsWith("checks",StringComparison.Ordinal)))Application.SetUnhandledExceptionMode(UnhandledExceptionMode.ThrowException);
-        using var mutex=new Mutex(true,args.Any(a=>a is "--preview" or "--ui-checks" or "--validate" or "--network-check" or "--update-checks" or "--latency-checks" or "--render-checks" or "--profile-checks" or "--management-checks")?"Local\\MelavoReview-"+Guid.NewGuid():"Local\\"+SubscriptionStore.ProfileName,out var unique);
+        using var mutex=new Mutex(true,args.Any(a=>a is "--preview" or "--ui-checks" or "--validate" or "--network-check" or "--update-checks" or "--icmp-checks" or "--latency-checks" or "--render-checks" or "--profile-checks" or "--management-checks")?"Local\\MelavoReview-"+Guid.NewGuid():"Local\\"+SubscriptionStore.ProfileName,out var unique);
         if(!unique){MessageBox.Show("برنامه از قبل باز است.");return;}
         if(args.Length==2 && args[0]=="--management-checks"){Environment.Exit(Client.ManagementChecks(args[1]));return;}
         if(args.Length>1 && args[0]=="--subscription-checks"){Environment.Exit(Client.SubscriptionChecks(args.Skip(1).ToArray()).GetAwaiter().GetResult());return;}
         if(args.Length==2 && args[0]=="--validate") { Environment.Exit(Client.Validate(args[1])); return; }
         if(args.Length==2 && args[0]=="--network-check") { Environment.Exit(Client.NetworkCheck(args[1]).GetAwaiter().GetResult()); return; }
         if(args.Length==2 && args[0]=="--latency-checks"){Environment.Exit(Client.LatencyChecks(args[1]).GetAwaiter().GetResult());return;}
+        if(args.Contains("--icmp-checks")){Environment.Exit(Client.IcmpChecks().GetAwaiter().GetResult());return;}
         if(args.Contains("--profile-checks")){SubscriptionStore.SelfTest();var count=SubscriptionStore.Read().Count;File.WriteAllText(Path.Combine(AppContext.BaseDirectory,"profile-checks.txt"),$"Edition: {SubscriptionStore.Edition}; profile: {SubscriptionStore.ProfileName}; saved groups: {count}; encrypted roundtrip: PASS");return;}
         if(args.Contains("--render-checks")){Environment.Exit(Client.RenderChecks());return;}
         if(args.Contains("--ui-checks")){Environment.Exit(Client.UiChecks());return;}

diff --git a/Client.Updates.cs b/Client.Updates.cs
@@ -3,7 +3,7 @@ namespace MelavoClient;
 sealed partial class Client {
  readonly ModernButton updateCore=new(){Text="آپدیت Xray",Width=170},updateApplication=new(){Text="آپدیت برنامه از ZIP",Width=220};
  readonly Label updateStatus=Design.Label("Xray از GitHub رسمی؛ برنامه از فایل نسخهٔ جدید",10,true);
- readonly Label installedInfo=Design.Label("Melavo 0.8.4\nXray / sing-box\nWindows 10 / 11 · x64\nEncrypted storage · Windows DPAPI",12);
+ readonly Label installedInfo=Design.Label("Melavo 0.8.5\nXray / sing-box\nWindows 10 / 11 · x64\nEncrypted storage · Windows DPAPI",12);
  async Task LoadInstalledInfo(){if(preview)return;try{var x=await Task.Run(()=>UpdateService.CoreVersion(Core("xray.exe")));var s=await Task.Run(()=>UpdateService.CoreVersion(Core("sing-box.exe")));if(!IsDisposed)installedInfo.Text="Melavo "+UpdateService.AppVersion+"\n"+string.Join(" ",x.Split(' ',StringSplitOptions.RemoveEmptyEntries).Take(2))+"\n"+s+"\nWindows 10 / 11 · x64";}catch{}}
  void BuildUpdateCard(Panel stack){checkAppUpdate.Text=L("Check for updates","بررسی بهروزرسانی");updateStatus.Text=L("Automatic updates from GitHub; local ZIP updates are also supported.","دریافت خودکار نسخهٔ جدید از گیتهاب؛ نصب از ZIP هم امکانپذیر است.");var card=AddCard(stack,210);var column=new FlowLayoutPanel{Dock=DockStyle.Fill,FlowDirection=FlowDirection.TopDown,WrapContents=false};column.Controls.Add(Design.Label("بهروزرسانی",13));var buttons=new FlowLayoutPanel{Height=45,Width=760};buttons.Controls.AddRange(new Control[]{checkAppUpdate,updateCore,updateApplication});column.Controls.Add(buttons);updateStatus.MaximumSize=new(700,0);column.Controls.Add(updateStatus);card.Controls.Add(column);updateCore.Click+=async(_,_)=>await UpdateXray();updateApplication.Click+=async(_,_)=>await UpdateProgram();}
  bool CanUpdate(){if(preview){updateStatus.Text=L("Updates are unavailable in offline preview.","بهروزرسانی در پیشنمایش آفلاین انجام نمیشود.");return false;}if(busy||updating||pingTesting||xray!=null||downloadingApp){updateStatus.Text=L("Disconnect before updating.","برای بهروزرسانی، اتصال را قطع کنید.");return false;}return true;}

diff --git a/Client.ConfigMenu.cs b/Client.ConfigMenu.cs
@@ -7,15 +7,15 @@ sealed partial class Client {
   if(!preview)autoUpdateTimer.Start();FormClosed+=(_,_)=>autoUpdateTimer.Dispose();
  }
  void InitializeConfigMenu(){
+  configMenu.AddAction("\uE768",async()=>await Connect());
   configMenu.AddAction("\uE72D",()=>ShowConfigShare());
   configMenu.AddAction("\uE70F",async()=>await ShowConfigEditor());
   configMenu.AddAction("\uE74D",()=>DeleteSelectedConfig(),true);
   configMenu.AddAction("\uE9D9",async()=>await CheckLatency());
-  configMenu.AddAction("\uE768",async()=>await Connect());
   servers.MouseUp+=(_,e)=>{if(e.Button!=MouseButtons.Right||!servers.SelectAt(e.Location))return;
    var idle=!busy&&!updating&&!pingTesting&&xray==null;
    var title=ServerList.StripFlags(Profiles[(int)servers.SelectedItems[0].Tag!]["remarks"]?.ToString()??L("Configuration","کانفیگ"));
-   configMenu.Prepare(title,Fa,new[]{L("Share","اشتراکگذاری"),L("Edit","ویرایش"),L("Delete","حذف"),L("Ping","پینگ"),L("Connect","اتصال")},new[]{!busy&&!updating,idle,idle,!busy&&!updating&&!pingTesting,idle});
+   configMenu.Prepare(title,Fa,new[]{L("Connect","اتصال"),L("Share","اشتراکگذاری"),L("Edit","ویرایش"),L("Delete","حذف"),L("Ping","پینگ")},new[]{idle,!busy&&!updating,idle,idle,!busy&&!updating&&!pingTesting});
    configMenu.Show(servers,e.Location);
   };
   FormClosed+=(_,_)=>configMenu.Dispose();

diff --git a/Client.IcmpChecks.cs b/Client.IcmpChecks.cs
@@ -1,0 +1,16 @@
+using System.Text.Json.Nodes;
+namespace MelavoClient;
+sealed partial class Client {
+ public static async Task<int> IcmpChecks(){
+  var report=new List<string>();int failures=0;
+  void Assert(bool value,string name){report.Add((value?"PASS: ":"FAIL: ")+name);if(!value)failures++;}
+  foreach(var protocol in new[]{"vless","vmess","trojan","shadowsocks","wireguard"}){
+   var settings=protocol=="wireguard"?new JsonObject{["peers"]=new JsonArray(new JsonObject{["endpoint"]="[::1]:51820"})}:new JsonObject{[protocol is "vless" or "vmess"?"vnext":"servers"]=new JsonArray(new JsonObject{["address"]="127.0.0.1"})};
+   var fixture=new JsonObject{["outbounds"]=new JsonArray(new JsonObject{["protocol"]=protocol,["settings"]=settings})};
+   Assert(IcmpHost(fixture)==(protocol=="wireguard"?"::1":"127.0.0.1"),protocol+" server extraction");
+   try{var ms=await MeasureIcmpProfile(fixture,CancellationToken.None);Assert(ms>=0&&ms<1000,protocol+" actual loopback ICMP reply");}catch{Assert(false,protocol+" actual loopback ICMP reply");}
+   using var cancel=new CancellationTokenSource();cancel.Cancel();try{await MeasureIcmpProfile(fixture,cancel.Token);Assert(false,"cancellation");}catch(OperationCanceledException){Assert(true,"cancellation");}
+  }
+  File.WriteAllLines(Path.Combine(AppContext.BaseDirectory,"icmp-checks.txt"),report);return failures;
+ }
+}

diff --git a/GlassMaterial.cs b/GlassMaterial.cs
@@ -41,6 +41,7 @@ static class GlassMaterial {
   var (root,offset)=Coordinates(control);var cached=ForWindow(root);g.DrawImageUnscaled(cached.Material!,-offset.X-18,-offset.Y-18);
  }
  public static void Backdrop(Graphics g,Control control){
+  if(control.FindForm() is Form dialog && dialog is not Client){Control? parent=control.Parent;while(parent!=null&&parent.BackColor.A!=255)parent=parent.Parent;g.Clear(parent?.BackColor??dialog.BackColor);return;}
   var offset=Point.Empty;Control? ancestor=control;while(ancestor!=null&&ancestor is not Card){offset.Offset(ancestor.Left,ancestor.Top);ancestor=ancestor.Parent;}
   if(ancestor is Card card){Surface(g,control);Finish(g,control,new Rectangle(-offset.X,-offset.Y,Math.Max(1,card.Width),Math.Max(1,card.Height)));}else Ambient(g,control);
  }

diff --git a/README.md b/README.md
@@ -2,7 +2,7 @@
 
 A modern Windows VPN client with a clean interface and support for Xray and sing-box. Available in English and Persian.
 
-[Download for Windows](https://github.com/sirvan1133/MelavoClient/releases/download/v0.8.4/Melavo-VPN-0.8.4-Windows-x64.zip)
+[Download for Windows](https://github.com/sirvan1133/MelavoClient/releases/download/v0.8.5/Melavo-VPN-0.8.5-Windows-x64.zip)
 
 ## فارسی
 
